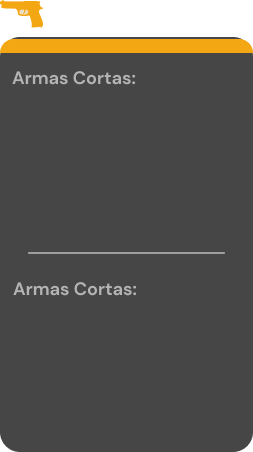
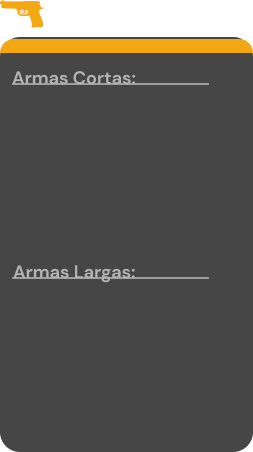
AddPatruDesign87%

Changed region(s): [[0.0553, 0.5575, 0.8854, 0.6504]]

diff --git a/src/VIsta/Programa/Patrullajes/Patrullajes_AddEquipamiento.java b/src/VIsta/Programa/Patrullajes/Patrullajes_AddEquipamiento.java
@@ -1,0 +1,109 @@
+/*
+ * Click nbfs://nbhost/SystemFileSystem/Templates/Licenses/license-default.txt to change this license
+ * Click nbfs://nbhost/SystemFileSystem/Templates/GUIForms/JFrame.java to edit this template
+ */
+package VIsta.Programa.Patrullajes;
+
+/**
+ *
+ * @author Pao
+ */
+public class Patrullajes_AddEquipamiento extends javax.swing.JFrame {
+
+    /**
+     * Creates new form Patrullajes_AddEquipamiento
+     */
+    public Patrullajes_AddEquipamiento() {
+        initComponents();
+    }
+
+    /**
+     * This method is called from within the constructor to initialize the form.
+     * WARNING: Do NOT modify this code. The content of this method is always
+     * regenerated by the Form Editor.
+     */
+    @SuppressWarnings("unchecked")
+    // <editor-fold defaultstate="collapsed" desc="Generated Code">//GEN-BEGIN:initComponents
+    private void initComponents() {
+
+        jScrollPane2 = new javax.swing.JScrollPane();
+        jScrollPane3 = new javax.swing.JScrollPane();
+        jScrollPane1 = new javax.swing.JScrollPane();
+        jScrollPane4 = new javax.swing.JScrollPane();
+        jLabel2 = new javax.swing.JLabel();
+        jLabel1 = new javax.swing.JLabel();
+
+        setDefaultCloseOperation(javax.swing.WindowConstants.EXIT_ON_CLOSE);
+        setUndecorated(true);
+        getContentPane().setLayout(new org.netbeans.lib.awtextra.AbsoluteLayout());
+
+        jScrollPane2.setBackground(new java.awt.Color(70, 70, 70));
+        jScrollPane2.setBorder(null);
+        getContentPane().add(jScrollPane2, new org.netbeans.lib.awtextra.AbsoluteConstraints(242, 170, 195, 130));
+
+        jScrollPane3.setBackground(new java.awt.Color(70, 70, 70));
+        jScrollPane3.setBorder(null);
+        getContentPane().add(jScrollPane3, new org.netbeans.lib.awtextra.AbsoluteConstraints(242, 342, 195, 130));
+
+        jScrollPane1.setBackground(new java.awt.Color(70, 70, 70));
+        jScrollPane1.setBorder(null);
+        getContentPane().add(jScrollPane1, new org.netbeans.lib.awtextra.AbsoluteConstraints(30, 170, 195, 130));
+
+        jScrollPane4.setBackground(new java.awt.Color(70, 70, 70));
+        jScrollPane4.setBorder(null);
+        getContentPane().add(jScrollPane4, new org.netbeans.lib.awtextra.AbsoluteConstraints(30, 342, 195, 130));
+
+        jLabel2.setIcon(new javax.swing.ImageIcon(getClass().getResource("/VIsta/imagenes/BACKESPECIALIZADOS.png"))); // NOI18N
+        getContentPane().add(jLabel2, new org.netbeans.lib.awtextra.AbsoluteConstraints(18, 110, -1, -1));
+
+        jLabel1.setIcon(new javax.swing.ImageIcon(getClass().getResource("/VIsta/imagenes/BACKEQUIPOAGREGAR.png"))); // NOI18N
+        getContentPane().add(jLabel1, new org.netbeans.lib.awtextra.AbsoluteConstraints(0, 0, -1, -1));
+
+        pack();
+        setLocationRelativeTo(null);
+    }// </editor-fold>//GEN-END:initComponents
+
+    /**
+     * @param args the command line arguments
+     */
+    public static void main(String args[]) {
+        /* Set the Nimbus look and feel */
+        //<editor-fold defaultstate="collapsed" desc=" Look and feel setting code (optional) ">
+        /* If Nimbus (introduced in Java SE 6) is not available, stay with the default look and feel.
+         * For details see http://download.oracle.com/javase/tutorial/uiswing/lookandfeel/plaf.html 
+         */
+        try {
+            for (javax.swing.UIManager.LookAndFeelInfo info : javax.swing.UIManager.getInstalledLookAndFeels()) {
+                if ("Nimbus".equals(info.getName())) {
+                    javax.swing.UIManager.setLookAndFeel(info.getClassName());
+                    break;
+                }
+            }
+        } catch (ClassNotFoundException ex) {
+            java.util.logging.Logger.getLogger(Patrullajes_AddEquipamiento.class.getName()).log(java.util.logging.Level.SEVERE, null, ex);
+        } catch (InstantiationException ex) {
+            java.util.logging.Logger.getLogger(Patrullajes_AddEquipamiento.class.getName()).log(java.util.logging.Level.SEVERE, null, ex);
+        } catch (IllegalAccessException ex) {
+            java.util.logging.Logger.getLogger(Patrullajes_AddEquipamiento.class.getName()).log(java.util.logging.Level.SEVERE, null, ex);
+        } catch (javax.swing.UnsupportedLookAndFeelException ex) {
+            java.util.logging.Logger.getLogger(Patrullajes_AddEquipamiento.class.getName()).log(java.util.logging.Level.SEVERE, null, ex);
+        }
+        //</editor-fold>
+
+        /* Create and display the form */
+        java.awt.EventQueue.invokeLater(new Runnable() {
+            public void run() {
+                new Patrullajes_AddEquipamiento().setVisible(true);
+            }
+        });
+    }
+
+    // Variables declaration - do not modify//GEN-BEGIN:variables
+    private javax.swing.JLabel jLabel1;
+    private javax.swing.JLabel jLabel2;
+    private javax.swing.JScrollPane jScrollPane1;
+    private javax.swing.JScrollPane jScrollPane2;
+    private javax.swing.JScrollPane jScrollPane3;
+    private javax.swing.JScrollPane jScrollPane4;
+    // End of variables declaration//GEN-END:variables
+}

diff --git a/src/Controlador/cntrlPatrullajes.java b/src/Controlador/cntrlPatrullajes.java
@@ -5,6 +5,7 @@ import Modelo.mdlPolicias;
 import VIsta.JoptionReplacemnt;
 import VIsta.Programa.JframePrincipal;
 import VIsta.Programa.Patrullajes.Patrullajes_AddActividades;
+import VIsta.Programa.Patrullajes.Patrullajes_AddEquipamiento;
 import VIsta.Programa.Patrullajes.Patrullajes_AddPersonal;
 import VIsta.Programa.Patrullajes.Patrullajes_AddUbicacion;
 import VIsta.Programa.Patrullajes.Patrullajes_Agregar;
@@ -80,8 +81,9 @@ public class cntrlPatrullajes implements ActionListener {
     private Patrullajes_AddPersonal addPersonal;
     private Patrullajes_AddUbicacion addUbicacion;
     private Patrullajes_AddActividades addActPatrullaje;
+    private Patrullajes_AddEquipamiento addEquipamiento;
 
-    public cntrlPatrullajes(ModeloPatrullajes modelPatrullajes, JframePrincipal JframePrincipal, Patrullajes_Inicio patrullajesHome, Patrullajes_Agregar addPatrullajes, Patrullajes_AddPersonal addPersonal, Patrullajes_AddUbicacion addUbicacion, Patrullajes_AddActividades addActPatrullaje) {
+    public cntrlPatrullajes(ModeloPatrullajes modelPatrullajes, JframePrincipal JframePrincipal, Patrullajes_Inicio patrullajesHome, Patrullajes_Agregar addPatrullajes, Patrullajes_AddPersonal addPersonal, Patrullajes_AddUbicacion addUbicacion, Patrullajes_AddActividades addActPatrullaje, Patrullajes_AddEquipamiento addEquipamiento) {
         this.modelPatrullajes = modelPatrullajes;
         this.JframePrincipal = JframePrincipal;
         this.vstPatrullajes = patrullajesHome;
@@ -89,6 +91,7 @@ public class cntrlPatrullajes implements ActionListener {
         this.addPersonal = addPersonal;
         this.addUbicacion = addUbicacion;
         this.addActPatrullaje = addActPatrullaje;
+        this.addEquipamiento = addEquipamiento;
         
         this.JframePrincipal.btnPatrullajes.addActionListener(this);
         this.JframePrincipal.btniconPatrullajes.addActionListener(this);
@@ -387,7 +390,7 @@ public class cntrlPatrullajes implements ActionListener {
             addPersonal.setEnabled(true);
             addPersonal.jLabel3.setVisible(false);
             panelULTIMATE.removeAll();
-
+            // Luego, puedes llamar al mÃ©todo "revalidate()" para actualizar la interfaz de usuario
             panelULTIMATE.revalidate();
             panelULTIMATE.repaint(); 
             JframePrincipal.setExtendedState(JFrame.NORMAL);
@@ -504,6 +507,7 @@ public class cntrlPatrullajes implements ActionListener {
                 
                 JSpinner spinner = new JSpinner(spinnerModel);
                 spinner.setName(String.valueOf(IdDetalle));
+                spinner.setPreferredSize(new Dimension(10, 10));
                 
                 spinner.addChangeListener(new ChangeListener() {
                 @Override
@@ -529,6 +533,7 @@ public class cntrlPatrullajes implements ActionListener {
                 VerticalBox.add(labelArma);
                 HorizontalBox.add(spinner);
                 HorizontalBox.add(Box.createHorizontalGlue());
+                VerticalBox.add(Box.createVerticalGlue());
                 panel.add(HorizontalBox);
             }
             

diff --git a/src/VIsta/Programa/Patrullajes/Patrullajes_Agregar.java b/src/VIsta/Programa/Patrullajes/Patrullajes_Agregar.java
@@ -1,6 +1,7 @@
 package VIsta.Programa.Patrullajes;
 
 import com.toedter.calendar.DateUtil;
+import com.toedter.calendar.JTextFieldDateEditor;
 import fonts.Fuentes;
 import java.util.Calendar;
 import java.util.Date;
@@ -59,7 +60,10 @@ public class Patrullajes_Agregar extends javax.swing.JPanel {
         //------------------------------------VALIDAR JDATECHOOSERS---------------------------------
         // Configurar el rango mínimo (hoy) para la fecha de inicio
         dpFechaInicio.setMinSelectableDate(new Date());
-
+        JTextFieldDateEditor editor1 = (JTextFieldDateEditor) dpFechaInicio.getDateEditor();
+        // Deshabilitar la edición
+        editor1.setEditable(false);
+        
         // Configurar el rango máximo (1 año en el futuro) para la fecha de inicio
         Calendar calendar = Calendar.getInstance();
         calendar.add(Calendar.YEAR, 1);
@@ -76,6 +80,11 @@ public class Patrullajes_Agregar extends javax.swing.JPanel {
         });
       
         dpFechaFin.setEnabled(false);
+        
+         JTextFieldDateEditor editor2 = (JTextFieldDateEditor) dpFechaFin.getDateEditor();
+        // Deshabilitar la edición
+        editor2.setEditable(false);
+        
         NumbersHoursMinutes();
         fontDesign();
     }
@@ -212,7 +221,7 @@ private void validarFechaInicio() {
 
         jSPArmasLargas.setBackground(new java.awt.Color(70, 70, 70));
         jSPArmasLargas.setBorder(null);
-        add(jSPArmasLargas, new org.netbeans.lib.awtextra.AbsoluteConstraints(25, 310, 220, 140));
+        add(jSPArmasLargas, new org.netbeans.lib.awtextra.AbsoluteConstraints(25, 295, 220, 140));
 
         jSPArmasCortas.setBackground(new java.awt.Color(70, 70, 70));
         jSPArmasCortas.setBorder(null);

diff --git a/src/VIsta/Programa/JframePrincipal.java b/src/VIsta/Programa/JframePrincipal.java
@@ -10,6 +10,7 @@ import VIsta.Login;
 import VIsta.Programa.Inicio.Inicio;
 import VIsta.Programa.Inventario.Inventario_Inicio;
 import VIsta.Programa.Patrullajes.Patrullajes_AddActividades;
+import VIsta.Programa.Patrullajes.Patrullajes_AddEquipamiento;
 import VIsta.Programa.Patrullajes.Patrullajes_AddPersonal;
 import VIsta.Programa.Patrullajes.Patrullajes_AddUbicacion;
 import VIsta.Programa.Patrullajes.Patrullajes_Agregar;
@@ -73,6 +74,7 @@ public class JframePrincipal extends javax.swing.JFrame {
     Actualizar_Policia UpdatePolice;
     Patrullajes_AddUbicacion PAddUbi;
     Patrullajes_AddActividades AddActPatru;
+    Patrullajes_AddEquipamiento AddEqui;
     private void PanelsShowInit()
     {
        patrullajesInicio = new Patrullajes_Inicio();
@@ -96,7 +98,8 @@ public class JframePrincipal extends javax.swing.JFrame {
         AddUser = new Agregar_Usuario_1();
         PAddUbi = new Patrullajes_AddUbicacion();
         AddActPatru = new Patrullajes_AddActividades();
-        cntrlPatrullajes ctnrlPatrullajes = new cntrlPatrullajes(mdlPatrullajes, this, patrullajesInicio, AddPatrullajes, PatrullajesAddP, PAddUbi, AddActPatru);
+        AddEqui = new Patrullajes_AddEquipamiento();
+        cntrlPatrullajes ctnrlPatrullajes = new cntrlPatrullajes(mdlPatrullajes, this, patrullajesInicio, AddPatrullajes, PatrullajesAddP, PAddUbi, AddActPatru, AddEqui);
         AddPolice = new Agregar_policia(); 
         UpdatePolice = new Actualizar_Policia();
         contrlPolicias cntrPoli = new contrlPolicias(policiasInicio, this, mdlPolicias, AddPolice, AddUser, idNivelUser, UpdatePolice);

diff --git a/src/VIsta/Programa/Patrullajes/Patrullajes_AddUbicacion.java b/src/VIsta/Programa/Patrullajes/Patrullajes_AddUbicacion.java
@@ -64,7 +64,7 @@ public class Patrullajes_AddUbicacion extends javax.swing.JFrame{
                 btnCancelMapMouseExited(evt);
             }
         });
-        getContentPane().add(btnCancelMap, new org.netbeans.lib.awtextra.AbsoluteConstraints(885, 15, -1, -1));
+        getContentPane().add(btnCancelMap, new org.netbeans.lib.awtextra.AbsoluteConstraints(870, 10, -1, -1));
 
         btnEXPORTAR.setIcon(new javax.swing.ImageIcon(getClass().getResource("/VIsta/imagenes/btnEXPORTAR.png"))); // NOI18N
         btnEXPORTAR.setBorderPainted(false);
